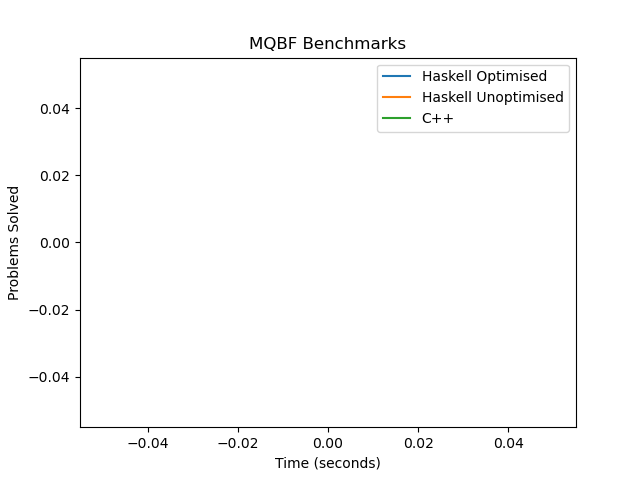
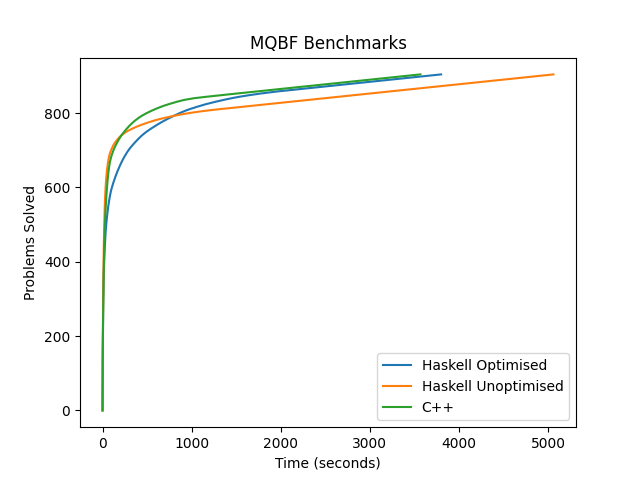
experiment result

diff --git a/Experiment/mqbf/experiment.py b/Experiment/mqbf/experiment.py
@@ -152,12 +152,12 @@ if __name__ == "__main__":
     haskell_files, cpp_files = find_files()
 
     # test them seperately 
-    keys = list(haskell_files.keys())
-    print(keys)
-    for k in keys:
-        if k != "3CNF":
-            haskell_files.pop(k)
-            cpp_files.pop(k)
+#    keys = list(haskell_files.keys())
+#    print(keys)
+#    for k in keys:
+#        if k != "3CNF":
+#            haskell_files.pop(k)
+#            cpp_files.pop(k)
 
     haskell_optim_times, haskell_times, cpp_times = run_experiment(haskell_files, cpp_files)
 
